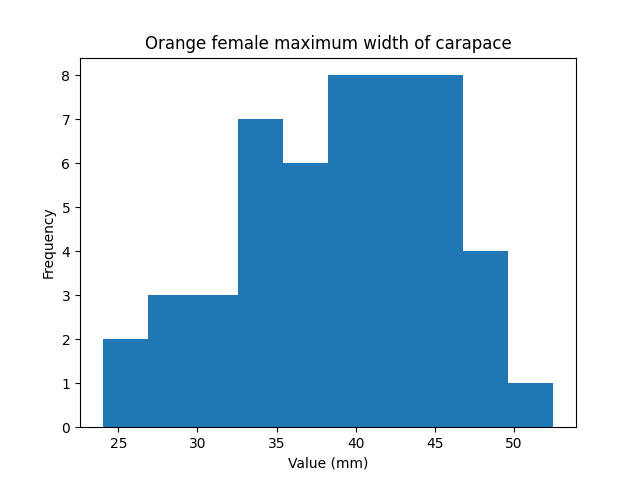
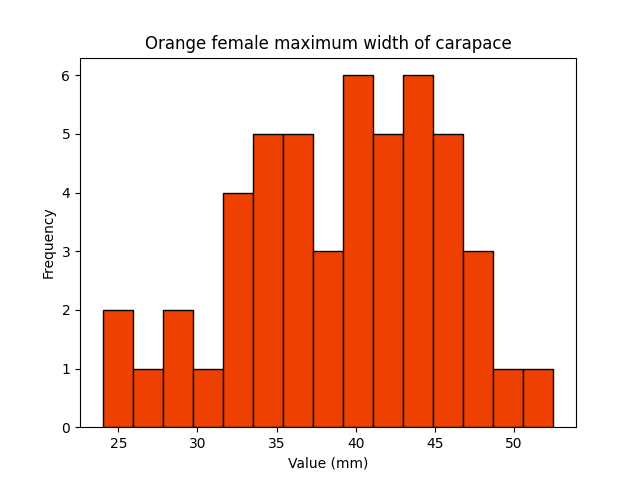
color fixes

diff --git a/main.py b/main.py
@@ -1,4 +1,9 @@
 from matplotlib import pyplot as plt
+from numpy import mean, std
+
+
+def average(lst):
+    return sum(lst) / len(lst)
 
 
 def get_attribute(data_list, attribute_number):
@@ -9,9 +14,9 @@ def get_attribute(data_list, attribute_number):
     return result
 
 
-def draw_histogram(data, name, suffix):
+def draw_histogram(data, name, suffix, color):
     plt.clf()
-    plt.hist(data)
+    plt.hist(data, bins=15, color=color, ec="black")
     plt.xlabel("Value (mm)")
     plt.ylabel("Frequency")
     result = suffix.replace(' ', '_')
@@ -21,16 +26,21 @@ def draw_histogram(data, name, suffix):
     plt.close()
 
 
-def generate(data_list, name):
+def generate(data_list, name, color):
     attribute_names = [" frontal lip of carapace", " rear width of carapace", " length along the midline of carapace",
                        " maximum width of carapace", " body depth"]
     suffix = [" FL", " RW", " CL", " CW", " BD"]
+    results = []
     for i in range(3, 8):
         j = i - 3
         long_name = name + attribute_names[j]
         short_name = name + suffix[j]
         attribute_values = get_attribute(data_list, i)
-        draw_histogram(attribute_values, long_name, short_name)
+        statistic = short_name + " Average: " + str(round(mean(attribute_values), 2)) + " Stan. dev.: " + \
+                    str(round(std(attribute_values), 2))
+        results.append(statistic)
+        draw_histogram(attribute_values, long_name, short_name, color)
+    return results
 
 
 
@@ -39,10 +49,10 @@ def main():
         message = f.read()
     f.close()
     lines = message.splitlines()
-    generate(lines[1:51], "Blue male")
-    generate(lines[51:101], "Blue female")
-    generate(lines[101:151], "Orange male")
-    generate(lines[151:201], "Orange female")
+    print(generate(lines[1:51], "Blue male", "#00BFFF"))
+    print(generate(lines[51:101], "Blue female", "#104E8B"))
+    print(generate(lines[101:151], "Orange male", "#FFA500"))
+    print(generate(lines[151:201], "Orange female", "#EE4000"))
 
 
 if __name__ == '__main__':
